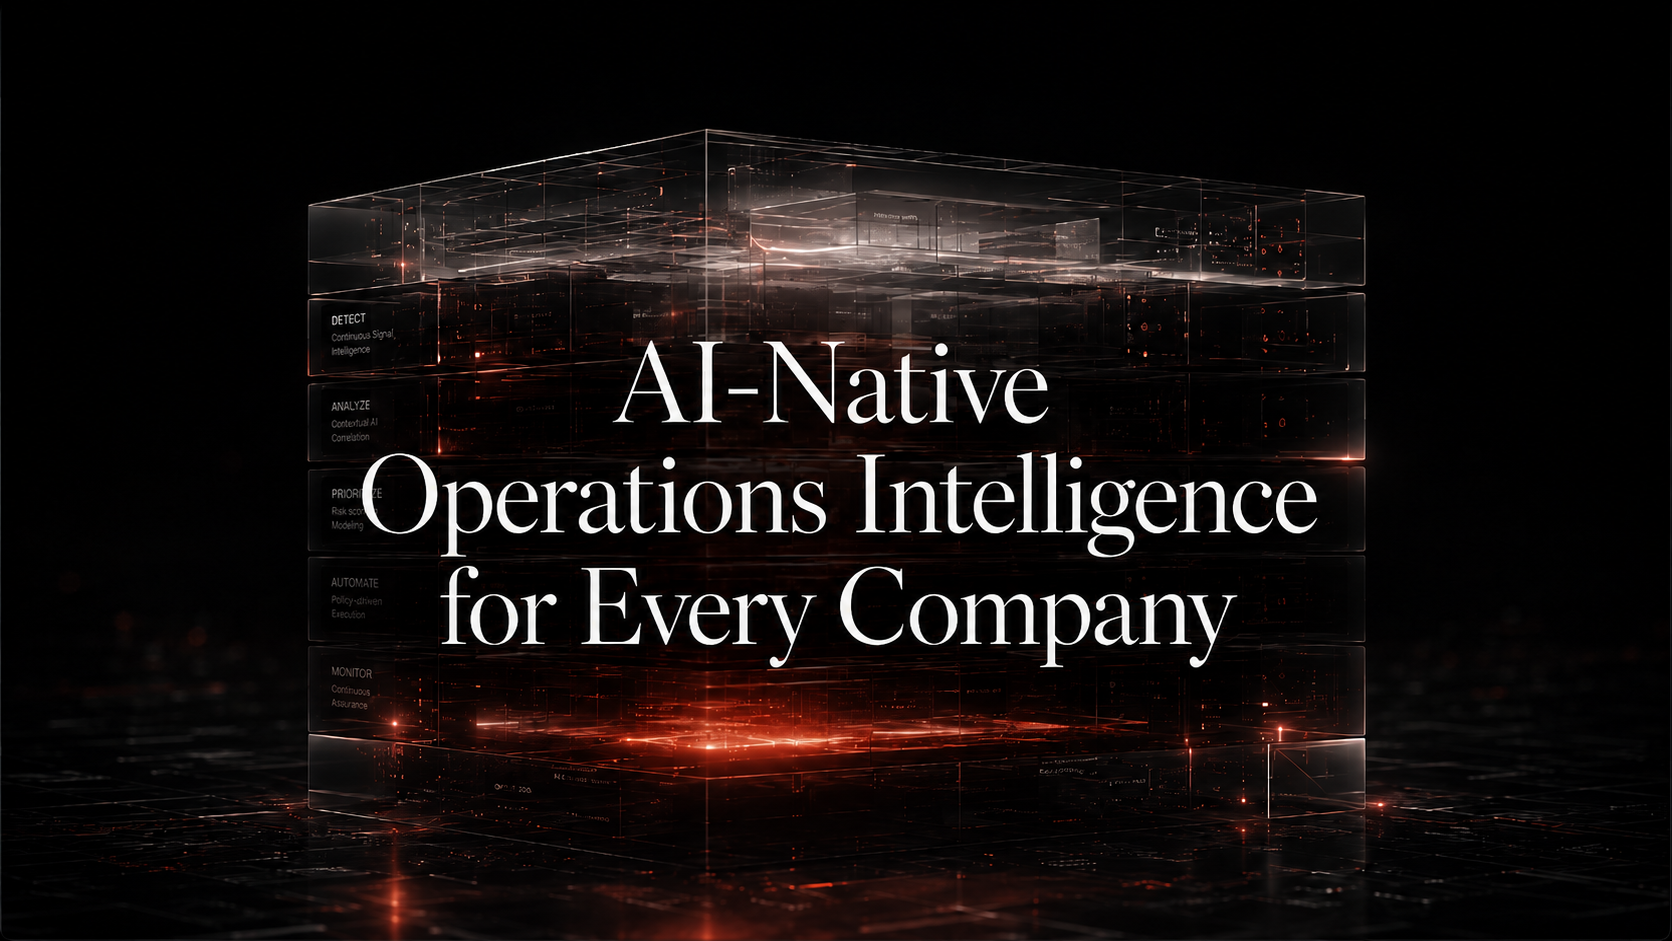
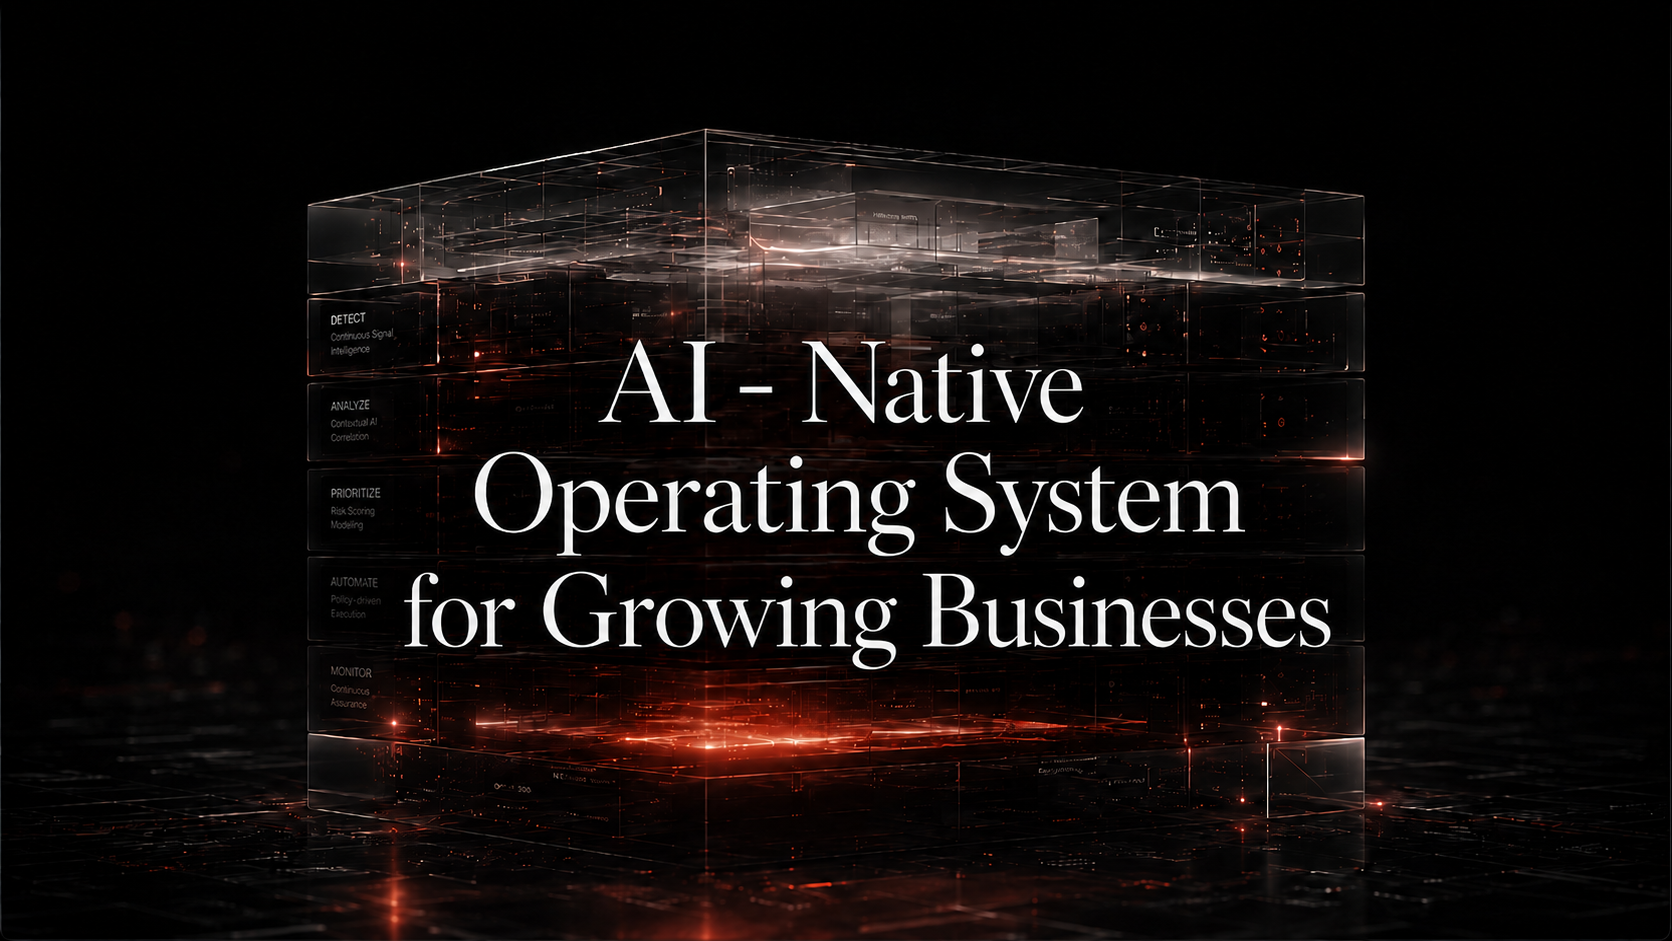
Hero: update image and heading to AI-Native Operating System for Growing Businesses

diff --git a/src/components/Landing.css b/src/components/Landing.css
@@ -210,6 +210,16 @@
   transform-style: preserve-3d;
   text-align: center;
 }
+.sa-land .hero-heading {
+  font-family: var(--serif);
+  font-size: clamp(38px, 6vw, 88px);
+  font-weight: 400;
+  line-height: 1.1;
+  color: #fff;
+  letter-spacing: -0.01em;
+  text-shadow: 0 2px 40px rgba(0,0,0,0.6);
+  margin: 0;
+}
 
 /* ============ STATEMENT ============ */
 .sa-land .statement {
